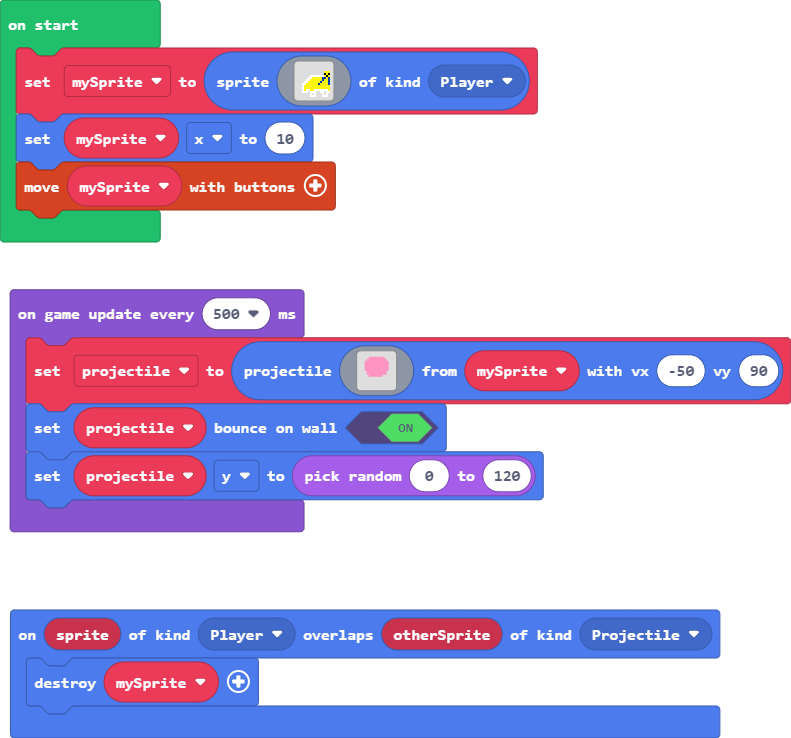
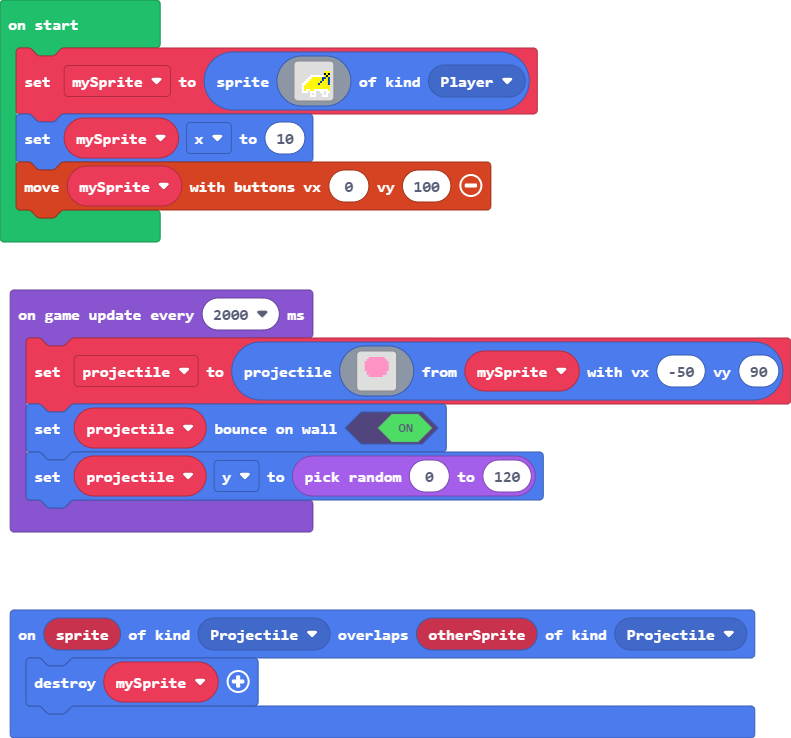
Update pxt.json, main.blocks, main.ts

diff --git a/main.ts b/main.ts
@@ -1,4 +1,4 @@
-sprites.onOverlap(SpriteKind.Player, SpriteKind.Projectile, function (sprite, otherSprite) {
+sprites.onOverlap(SpriteKind.Projectile, SpriteKind.Projectile, function (sprite, otherSprite) {
     sprites.destroy(mySprite)
 })
 let projectile: Sprite = null
@@ -22,8 +22,8 @@ mySprite = sprites.create(img`
     . . . . . . 1 1 1 . . . 1 1 1 . 
     `, SpriteKind.Player)
 mySprite.x = 10
-controller.moveSprite(mySprite)
-game.onUpdateInterval(500, function () {
+controller.moveSprite(mySprite, 0, 100)
+game.onUpdateInterval(2000, function () {
     projectile = sprites.createProjectileFromSprite(img`
         . . . . . . . . . . . . . . . . 
         . . . . 3 3 3 3 3 3 3 3 . . . . 
